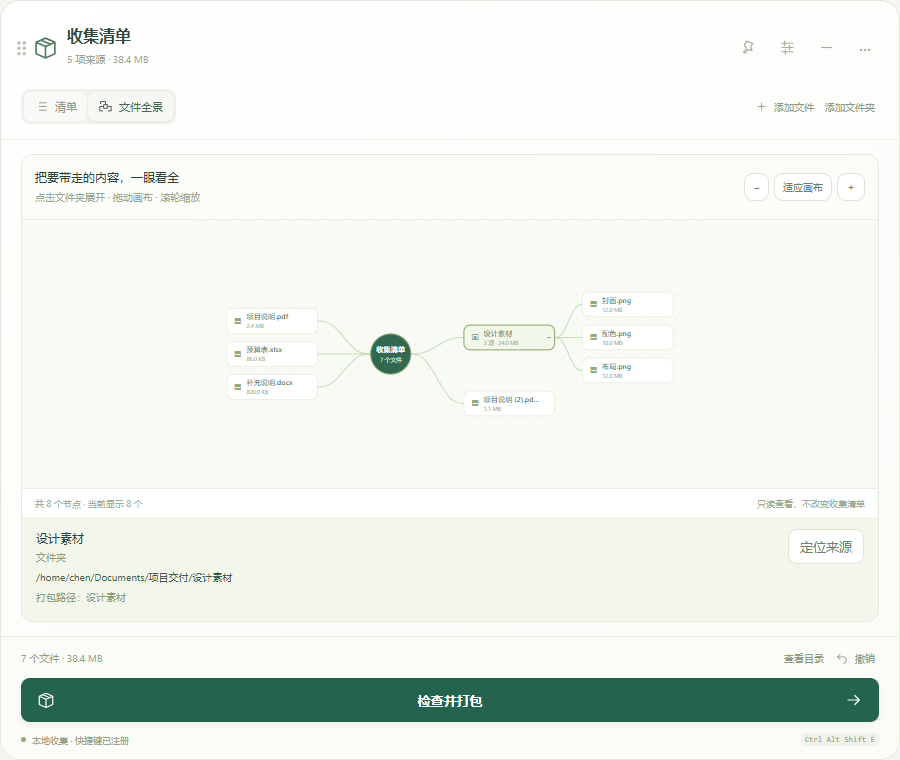
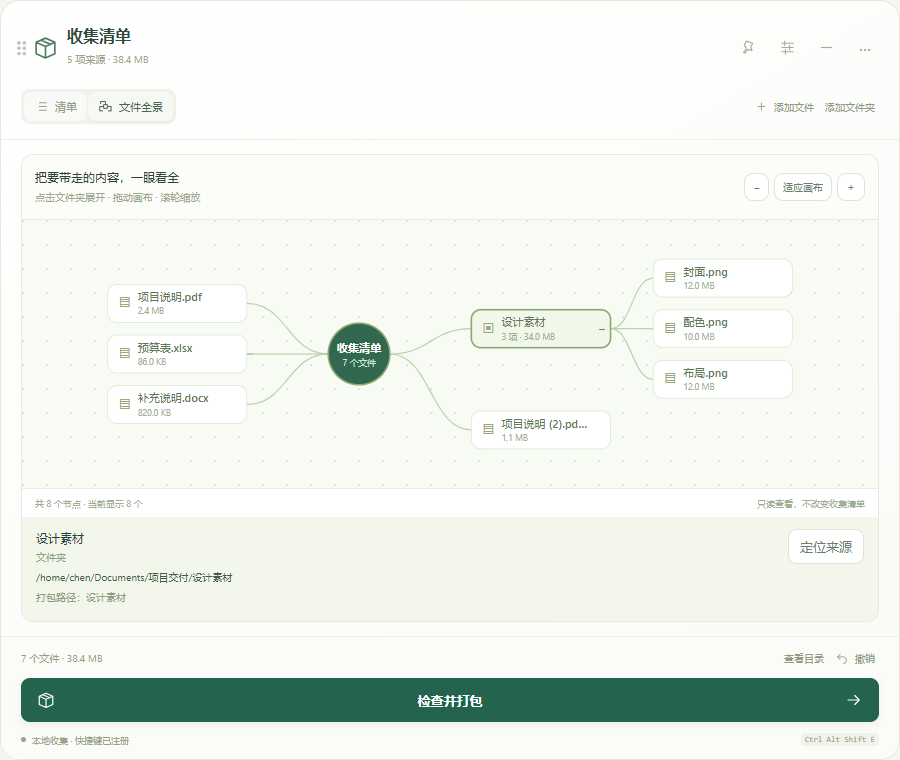
fix(ui): fit file graph to the actual canvas for readable labels

diff --git a/src/FileGraph.tsx b/src/FileGraph.tsx
@@ -50,6 +50,16 @@ export function FileGraph({ plan, reveal }: { plan: GraphPlan; reveal: (path: st
   const [selected, setSelected] = useState<Node | null>(null);
   const [view, setView] = useState({ x: 500, y: 260, zoom: 1 });
   const svg = useRef<SVGSVGElement>(null);
+  const [viewport, setViewport] = useState({ width: 1000, height: 520 });
+  useEffect(() => {
+    const element = svg.current!;
+    const observer = new ResizeObserver(() => {
+      const rect = element.getBoundingClientRect();
+      if (rect.width && rect.height) setViewport({ width: rect.width, height: rect.height });
+    });
+    observer.observe(element);
+    return () => observer.disconnect();
+  }, []);
   const gesture = useRef<{ id: number; x: number; y: number; originX: number; originY: number } | null>(null);
   useEffect(() => { setSelected(null); setExpanded(new Set()); setLimits({}); }, [model]);
   const layout = useMemo(() => {
@@ -88,20 +98,20 @@ export function FileGraph({ plan, reveal }: { plan: GraphPlan; reveal: (path: st
     return { positions, minX: Math.min(...xs) - 105, maxX: Math.max(...xs) + 105, minY: Math.min(...ys) - 45, maxY: Math.max(...ys) + 45 };
   }, [model, expanded, limits]);
   function fit() {
-    const zoom = Math.min(1.25, 900 / (layout.maxX - layout.minX), 450 / (layout.maxY - layout.minY));
-    setView({ x: 500 - (layout.minX + layout.maxX) / 2 * zoom, y: 260 - (layout.minY + layout.maxY) / 2 * zoom, zoom });
+    const zoom = Math.min(1.25, (viewport.width - 55) / (layout.maxX - layout.minX), (viewport.height - 45) / (layout.maxY - layout.minY));
+    setView({ x: viewport.width / 2 - (layout.minX + layout.maxX) / 2 * zoom, y: viewport.height / 2 - (layout.minY + layout.maxY) / 2 * zoom, zoom });
   }
-  useEffect(fit, [layout]);
+  useEffect(fit, [layout, viewport]);
   const changeZoom = (factor: number) => setView(current => {
     const zoom = Math.max(.08, Math.min(3, current.zoom * factor)), ratio = zoom / current.zoom;
-    return { x: 500 + (current.x - 500) * ratio, y: 260 + (current.y - 260) * ratio, zoom };
+    return { x: viewport.width / 2 + (current.x - viewport.width / 2) * ratio, y: viewport.height / 2 + (current.y - viewport.height / 2) * ratio, zoom };
   });
   useEffect(() => {
     const element = svg.current;
     const wheel = (event: WheelEvent) => { event.preventDefault(); changeZoom(event.deltaY < 0 ? 1.12 : 1 / 1.12); };
     element?.addEventListener('wheel', wheel, { passive: false });
     return () => element?.removeEventListener('wheel', wheel);
-  }, []);
+  }, [viewport]);
   function toggle(node: Node) { setExpanded(current => { const next = new Set(current); next.has(node.id) ? next.delete(node.id) : next.add(node.id); return next; }); }
   function select(point: Positioned) {
     if (point.more) { setLimits(current => ({ ...current, [point.more!]: (current[point.more!] ?? PAGE) + PAGE })); return; }
@@ -112,12 +122,12 @@ export function FileGraph({ plan, reveal }: { plan: GraphPlan; reveal: (path: st
     if (!current || current.id !== event.pointerId) return;
     const rect = event.currentTarget.getBoundingClientRect();
     // meet alignment leaves horizontal or vertical gutters; use the common scale.
-    const scale = Math.min(rect.width / 1000, rect.height / 520);
+    const scale = Math.min(rect.width / viewport.width, rect.height / viewport.height);
     setView(view => ({ ...view, x: current.originX + (event.clientX - current.x) / scale, y: current.originY + (event.clientY - current.y) / scale }));
   }
   return <section className="file-graph" aria-label="文件关系图">
     <div className="graph-toolbar"><div><strong>把要带走的内容，一眼看全</strong><p>点击文件夹展开 · 拖动画布 · 滚轮缩放</p></div><div className="graph-controls"><button aria-label="缩小关系图" onClick={() => changeZoom(1 / 1.25)}>−</button><button onClick={fit}>适应画布</button><button aria-label="放大关系图" onClick={() => changeZoom(1.25)}>＋</button></div></div>
-    <svg ref={svg} viewBox="0 0 1000 520" aria-label="收集文件发散图" onPointerDown={event => { if (event.button !== 0) return; event.currentTarget.setPointerCapture(event.pointerId); gesture.current = { id: event.pointerId, x: event.clientX, y: event.clientY, originX: view.x, originY: view.y }; }} onPointerMove={pan} onPointerUp={() => { gesture.current = null; }} onPointerCancel={() => { gesture.current = null; }}>
+    <svg ref={svg} viewBox={`0 0 ${viewport.width} ${viewport.height}`} aria-label="收集文件发散图" onPointerDown={event => { if (event.button !== 0) return; event.currentTarget.setPointerCapture(event.pointerId); gesture.current = { id: event.pointerId, x: event.clientX, y: event.clientY, originX: view.x, originY: view.y }; }} onPointerMove={pan} onPointerUp={() => { gesture.current = null; }} onPointerCancel={() => { gesture.current = null; }}>
       <defs><pattern id="graph-dots" width="24" height="24" patternUnits="userSpaceOnUse"><circle cx="1" cy="1" r="1" fill="#d4e0d9" /></pattern></defs>
       <rect width="100%" height="100%" fill="url(#graph-dots)" />
       <g transform={`translate(${view.x} ${view.y}) scale(${view.zoom})`}>
